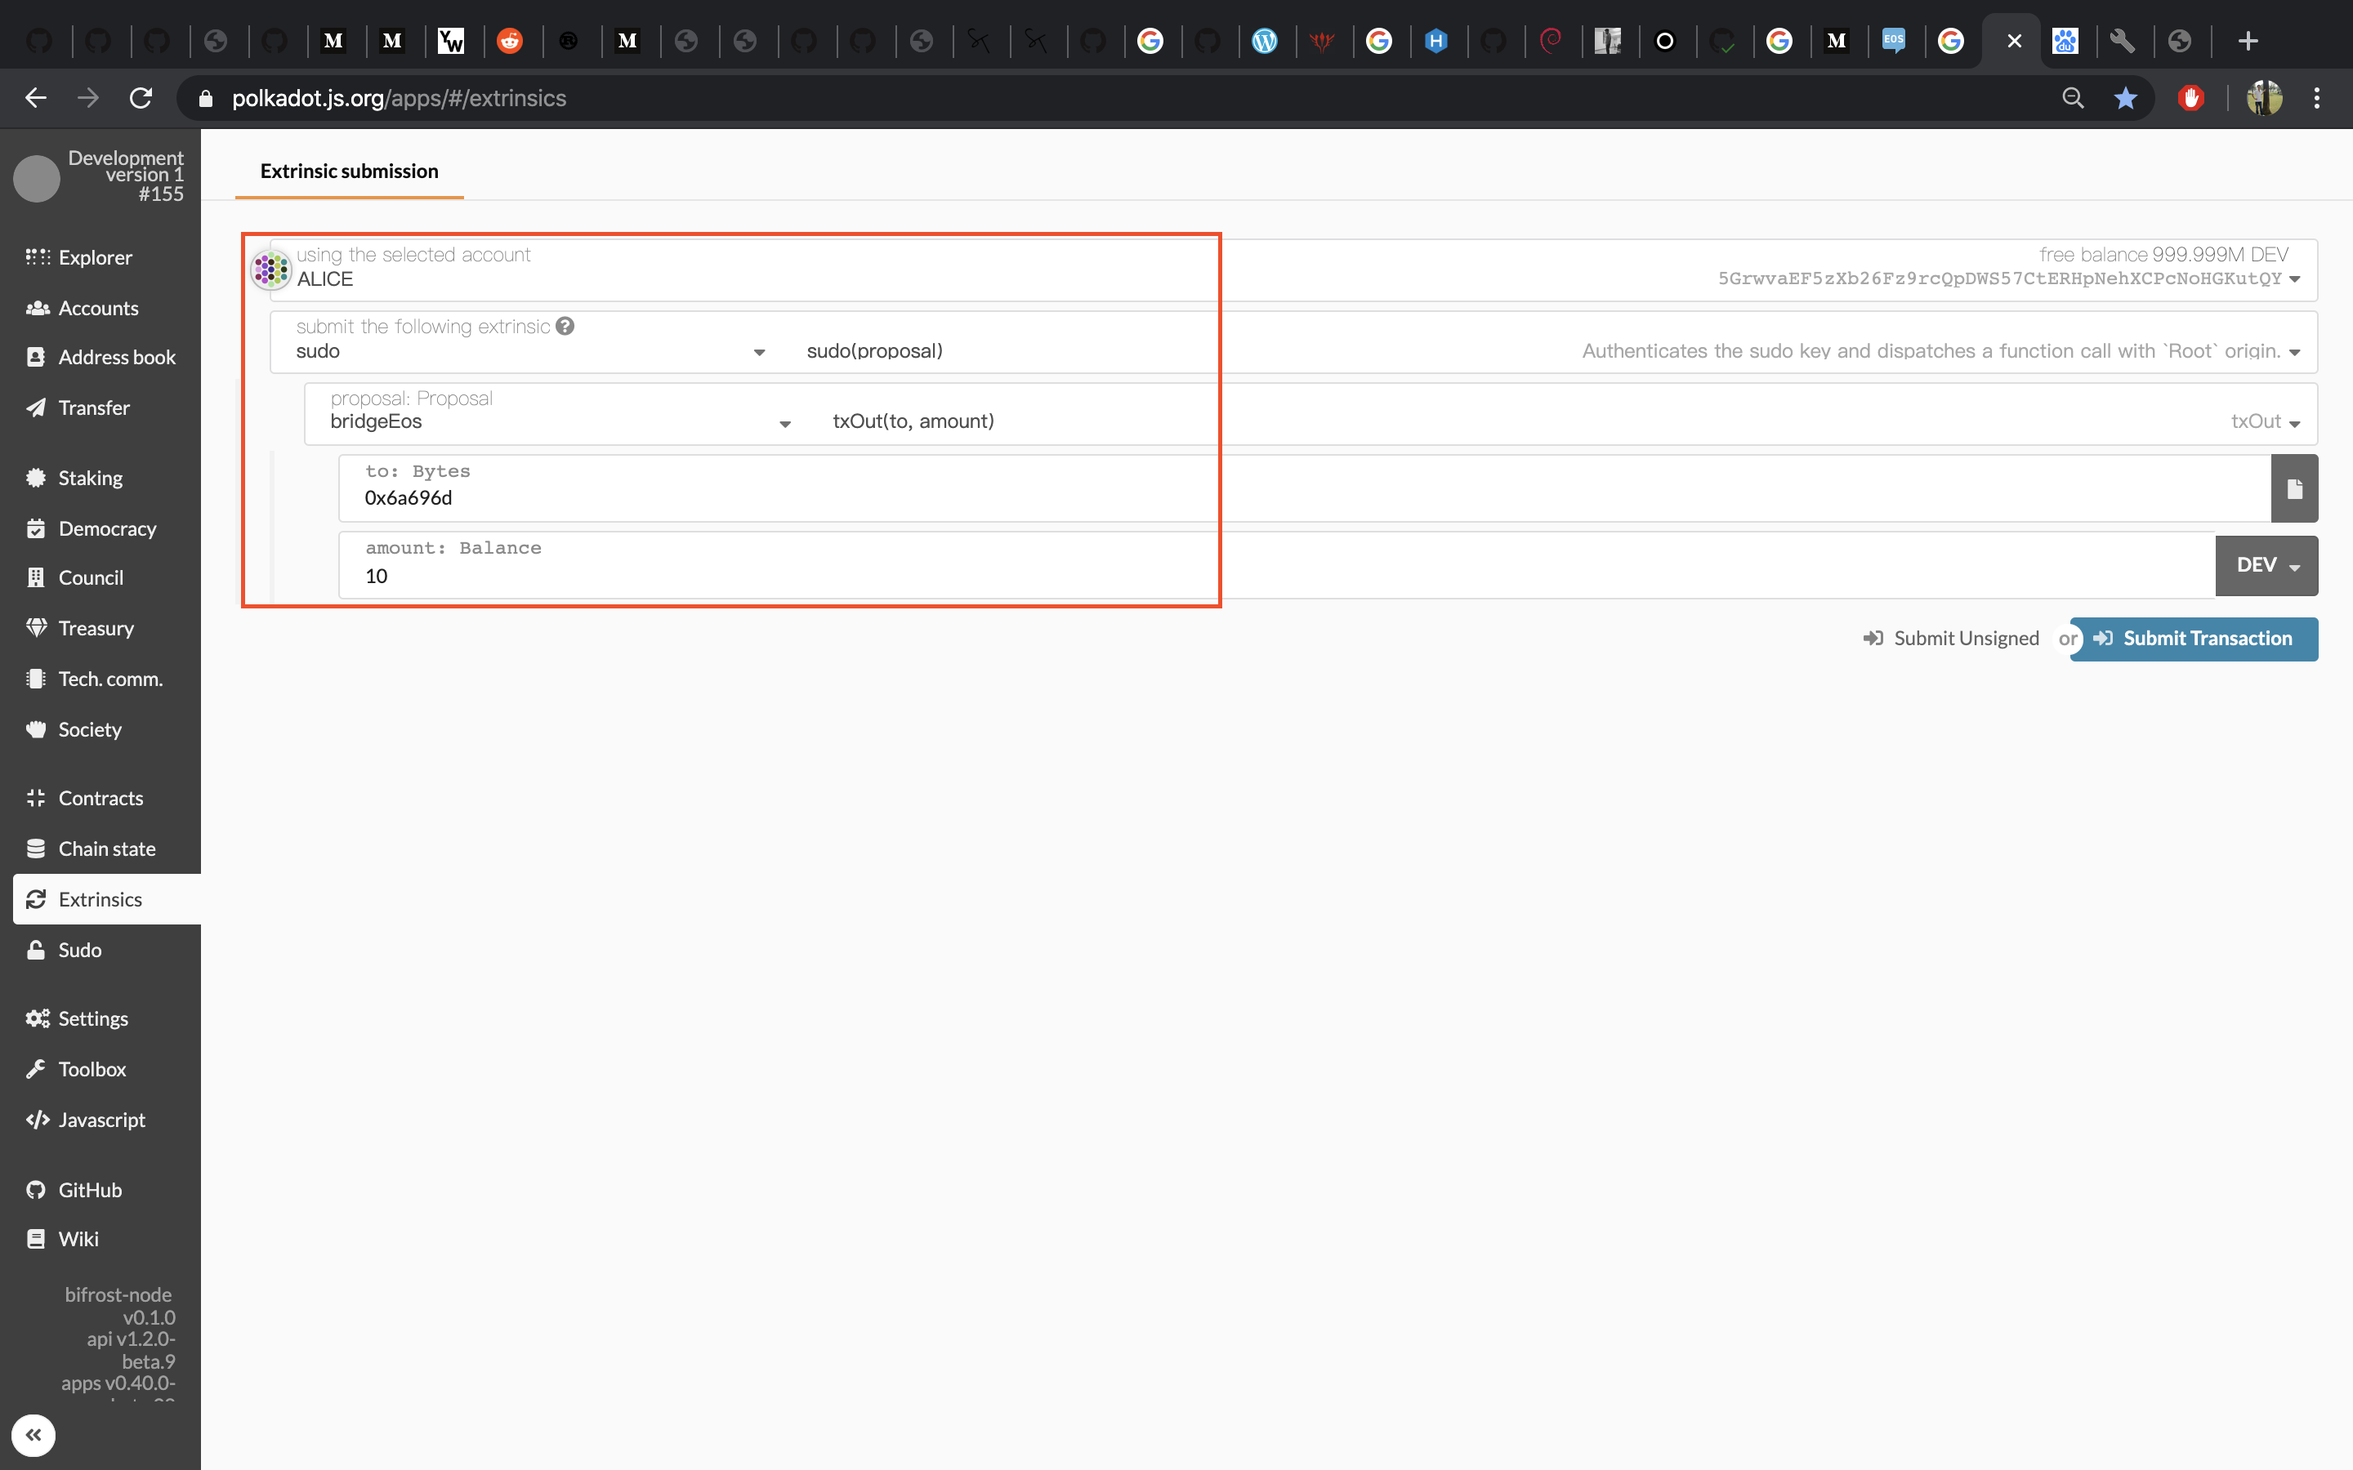
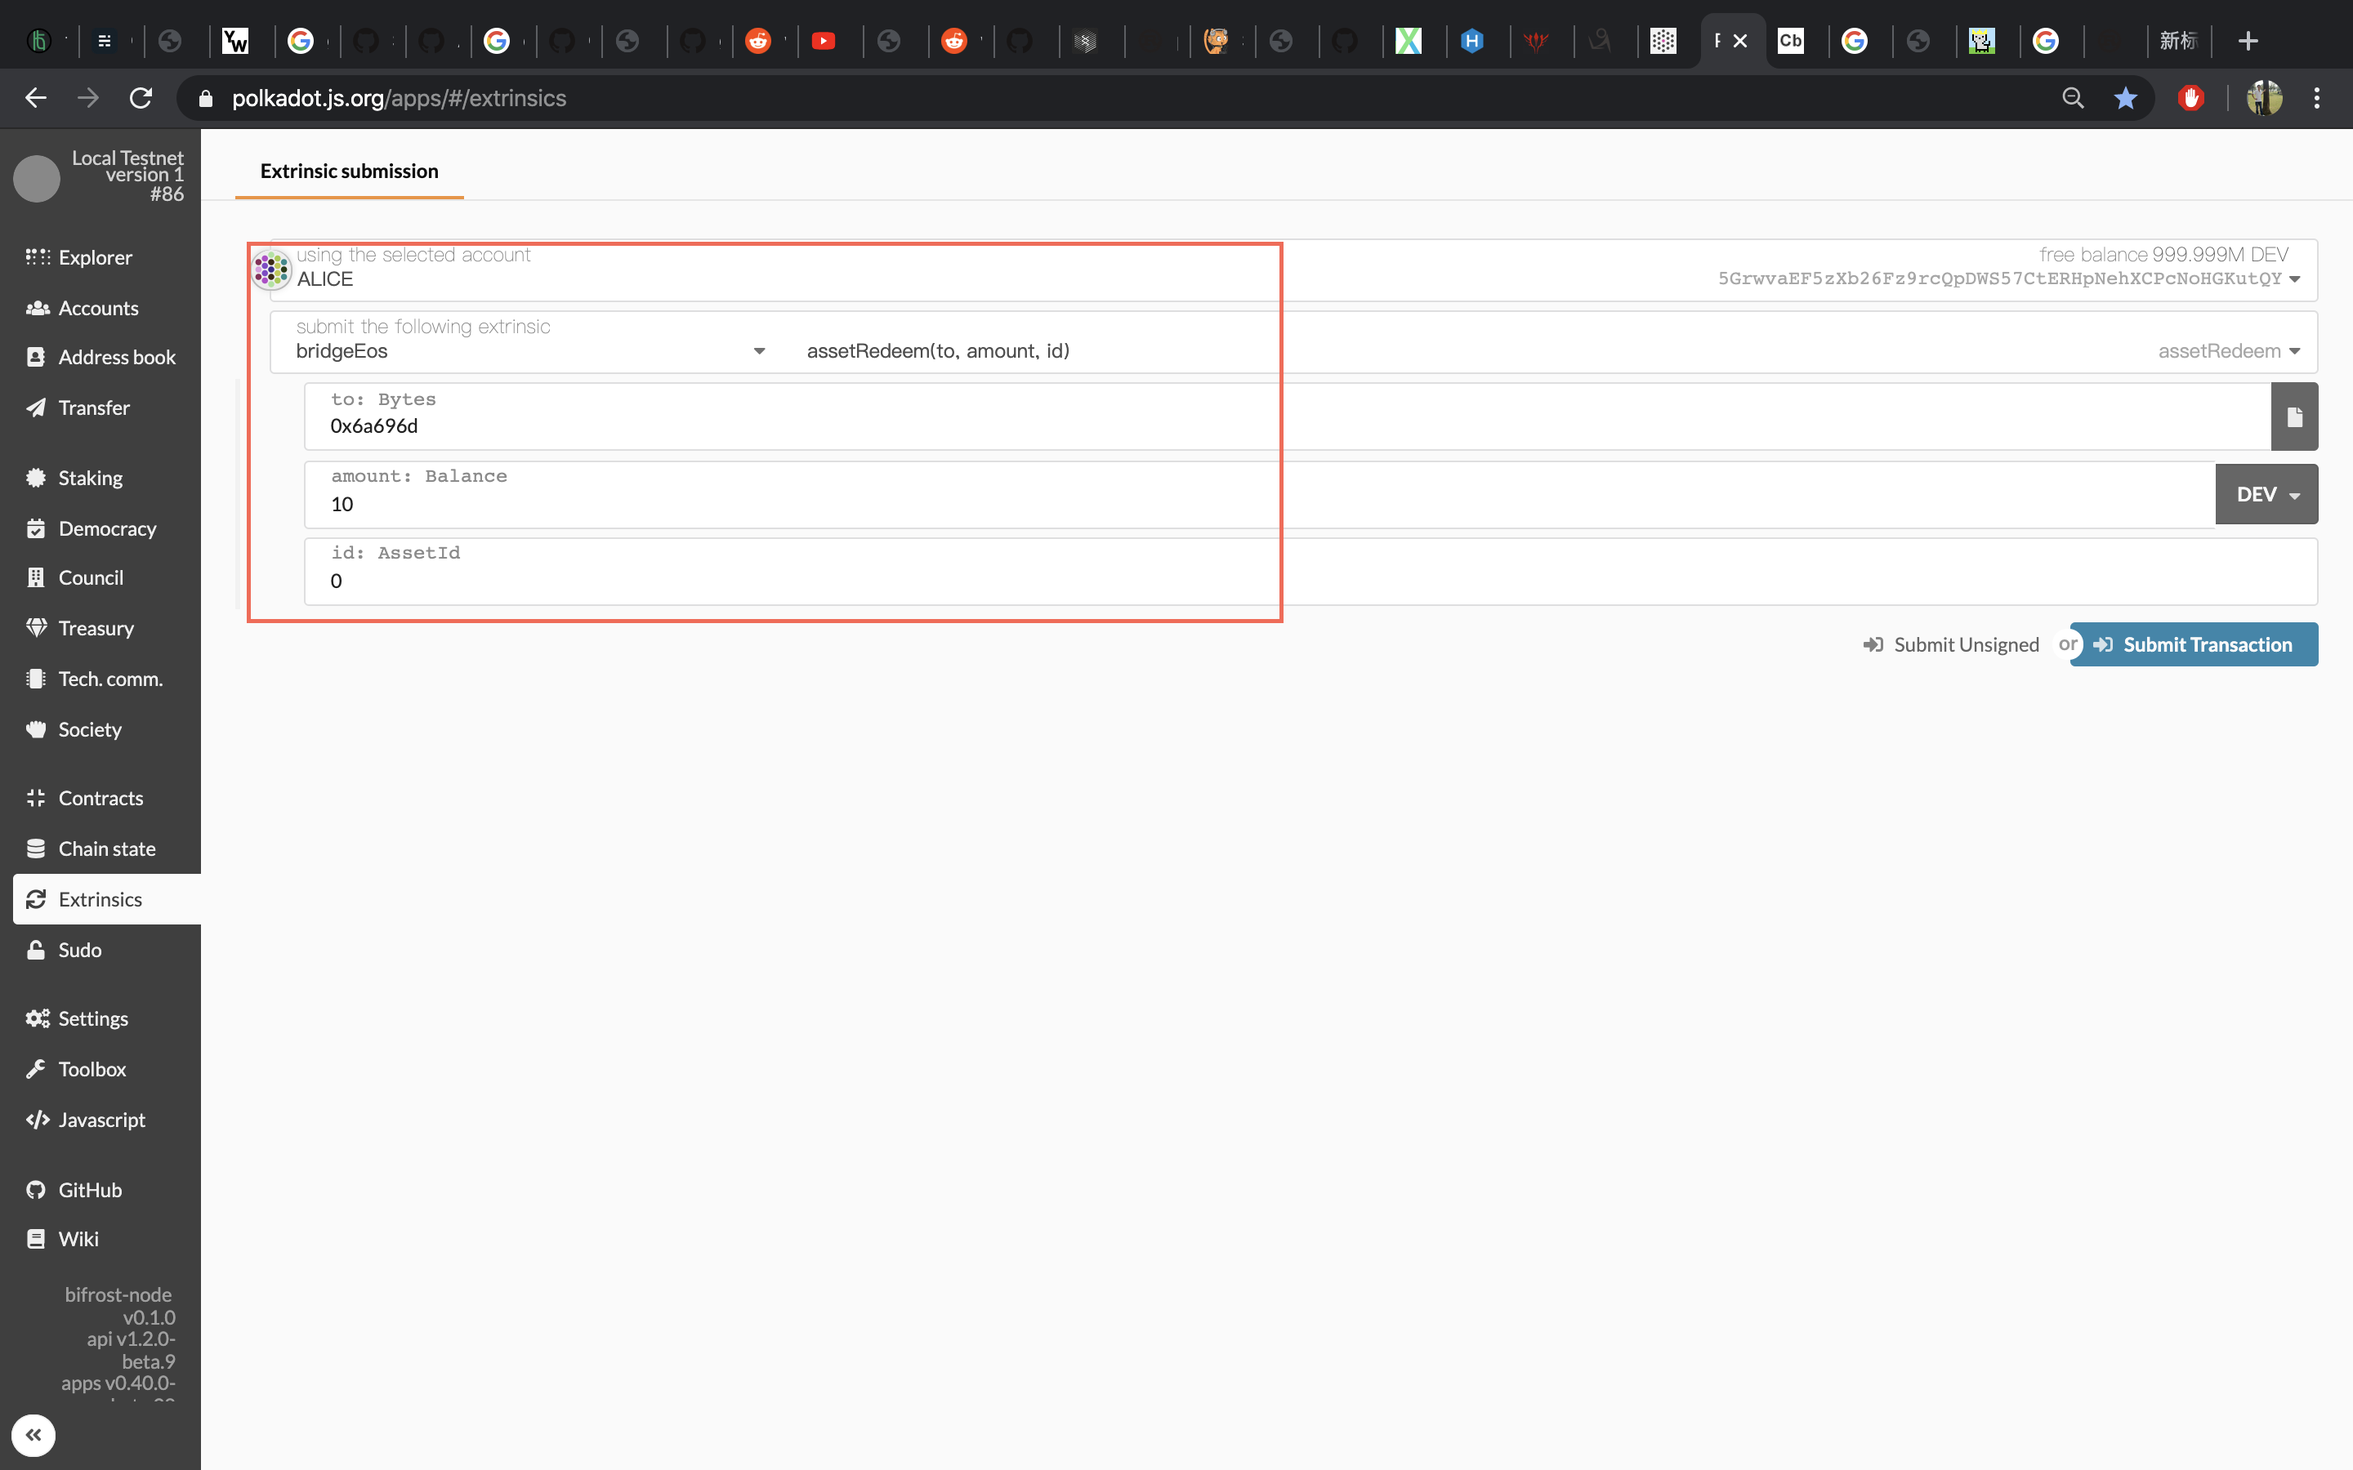
Add brml-assets module to brml-bridge-eos and check receiver and node name

diff --git a/brml/bridge-eos/src/lib.rs b/brml/bridge-eos/src/lib.rs
@@ -21,7 +21,7 @@ extern crate alloc;
 use alloc::borrow::Cow;
 use alloc::string::String;
 use alloc::string::ToString;
-use core::str::FromStr;
+use core::{ops::Div, str::FromStr};
 
 use codec::Encode;
 use eos_chain::{
@@ -46,7 +46,7 @@ use frame_system::{
 	offchain::SubmitUnsignedTransaction
 };
 
-use node_primitives::{BridgeAssetBalance, BridgeAssetFrom, BridgeAssetTo, BridgeAssetSymbol, BlockchainType};
+use node_primitives::{AssetCreate, AssetIssue, AssetRedeem, BridgeAssetBalance, BridgeAssetFrom, BridgeAssetTo, BridgeAssetSymbol, BlockchainType};
 use transaction::TxOut;
 use sp_application_crypto::RuntimeAppPublic;
 
@@ -130,6 +130,7 @@ pub enum Error {
 	#[cfg(feature = "std")]
 	EosKeysError(eos_keys::error::Error),
 	NoLocalStorage,
+	InvalidAccountId,
 }
 
 impl core::convert::From<eos_chain::symbol::ParseSymbolError> for Error {
@@ -140,7 +141,7 @@ impl core::convert::From<eos_chain::symbol::ParseSymbolError> for Error {
 
 pub type VersionId = u32;
 
-pub trait Trait: pallet_authorship::Trait {
+pub trait Trait: pallet_authorship::Trait + assets::Trait {
 	/// The identifier type for an authority.
 	type AuthorityId: Member + Parameter + RuntimeAppPublic + Default + Ord
 		+ From<<Self as frame_system::Trait>::AccountId>;
@@ -154,7 +155,7 @@ pub trait Trait: pallet_authorship::Trait {
 	type Precision: Member + Parameter + SimpleArithmetic + Default + Copy;
 
 	/// Bridge asset from another blockchain.
-	type BridgeAssetFrom: BridgeAssetFrom<Self::AccountId, Self::Precision, Self::Balance>;
+	type BridgeAssetFrom: BridgeAssetFrom<Self::AccountId, Self::Precision, <Self as assets::Trait>::Balance>;
 
 	/// A dispatchable call type.
 	type Call: From<Call<Self>>;
@@ -169,6 +170,8 @@ decl_event! {
 		ChangeSchedule(VersionId, VersionId), // ChangeSchedule(from, to)
 		ProveAction,
 		RelayBlock,
+		TransactionFail,
+		TransactionSuccess,
 	}
 }
 
@@ -299,6 +302,7 @@ decl_module! {
 
 		fn prove_action(
 			origin,
+			target: T::AccountId,
 			action: Action,
 			action_receipt: ActionReceipt,
 			action_merkle_paths: Vec<Checksum256>,
@@ -323,6 +327,13 @@ decl_module! {
 				block_ids_list.len() ==  block_headers.len(),
 				"The block ids list cannot be empty."
 			);
+
+			// check memo, example like "alice@bifrost:EOS", the formatter: {receiver}@{chain}:{memo}
+			let act_transfer = Self::get_action_transfer_from_action(&action);
+			ensure!(act_transfer.is_ok(), "Cannot read transfer action from data.");
+			let act_transfer = act_transfer.unwrap();
+			let split_memo = act_transfer.memo.as_str().split(|c| c == '@' || c == ':').collect::<Vec<_>>();
+			ensure!(split_memo.len() == 2 || split_memo.len() == 3, "This is an invalid memo");
 
 			let action_hash = action.digest();
 			ensure!(action_hash.is_ok(), "failed to calculate action digest.");
@@ -358,7 +369,7 @@ decl_module! {
 			Self::deposit_event(Event::ProveAction);
 
 			// withdraw or deposit
-			Self::filter_account_by_action(&action);
+			Self::filter_account_by_action(target, &act_transfer);
 		}
 
 		fn bridge_tx_report(origin, tx_list: Vec<TxOut<T::AccountId>>) {
@@ -367,16 +378,27 @@ decl_module! {
 			BridgeTxOuts::<T>::put(tx_list);
 		}
 
-		fn tx_out(origin, to: Vec<u8>, amount: T::Balance) {
-			let _ = ensure_root(origin)?;
+		fn asset_redeem(origin, to: Vec<u8>, amount: <T as assets::Trait>::Balance, id: T::AssetId) {
+			let origin = system::ensure_signed(origin)?;
+			let origin_account = (id, origin.clone());
+			let eos_amount = amount.clone();
+
+			let balance = <assets::Balances<T>>::get(origin_account);
+			let amount = amount.div(<T as assets::Trait>::Balance::from(10u32.pow(8)));
+			ensure!(balance >= amount, "amount should be less than or equal to origin balance");
 
 			let raw_symbol = b"EOS".to_vec();
 			let asset_symbol = BridgeAssetSymbol::new(BlockchainType::EOS, raw_symbol, T::Precision::from(4u32));
 			let bridge_asset = BridgeAssetBalance {
 				symbol: asset_symbol,
-				amount
+				amount: eos_amount
 			};
-			Self::bridge_asset_to(to, bridge_asset);
+			if Self::bridge_asset_to(to, bridge_asset).is_ok() {
+				assets::Module::<T>::asset_redeem(id, origin, amount, None);
+				Self::deposit_event(Event::TransactionSuccess);
+			} else {
+				Self::deposit_event(Event::TransactionFail);
+			}
 		}
 
 		// Runs after every block.
@@ -485,8 +507,10 @@ impl<T: Trait> Module<T> {
 		Ok(action_transfer)
 	}
 
-	fn filter_account_by_action(action: &Action) -> Result<(), Error> {
-		let action_transfer = Self::get_action_transfer_from_action(&action)?;
+	fn filter_account_by_action(target: T::AccountId, action_transfer: &ActionTransfer) -> Result<(), Error> {
+		let amount = <T as assets::Trait>::Balance::from(action_transfer.quantity.amount as u32);
+		let (id, _) = assets::Module::<T>::asset_create(vec![0u8], 4);
+		assets::Module::<T>::asset_issue(id, target, amount);
 
 		let from = action_transfer.from.to_string().as_bytes().to_vec();
 		if BridgeContractAccount::get().0 == from {
@@ -501,6 +525,16 @@ impl<T: Trait> Module<T> {
 		}
 
 		Ok(())
+	}
+
+	/// check receiver account format
+	/// https://github.com/paritytech/substrate/wiki/External-Address-Format-(SS58)
+	fn receiver_is_ss58(receiver: &str) -> Result<bool, Error> {
+		let decoded_ss58 = bs58::decode(receiver).into_vec().map_err(|_| crate::Error::InvalidAccountId)?;
+
+		Ok(
+			decoded_ss58.len() == 35 && decoded_ss58.first() == Some(&42) // and checmsum need to be calculated?
+		)
 	}
 
 	/// generate transaction for transfer amount to
@@ -523,7 +557,8 @@ impl<T: Trait> Module<T> {
 
 	#[cfg(feature = "std")]
 	fn offchain(_now_block: T::BlockNumber) {
-		let mut has_change = false;
+		//  avoid borrow checker issue if use has_change: bool
+		let has_change = core::cell::Cell::new(false);
 
 		let bridge_tx_outs = BridgeTxOuts::<T>::get();
 
@@ -545,11 +580,11 @@ impl<T: Trait> Module<T> {
 					// generate raw transactions
 					TxOut::<T::AccountId>::Initial(_) => {
 						if let Ok(generated_bto) = bto.clone().generate(node_url.as_str()) {
-							has_change = true;
+							has_change.set(true);
 							debug::info!(
 								target: "bridge-eos",
 								"bto.generate {:?}",
-								generated_bto.clone(),
+								generated_bto,
 							);
 							dbg!("bto.generate");
 							generated_bto
@@ -559,7 +594,7 @@ impl<T: Trait> Module<T> {
 					},
 					_ => bto,
 				}
-			}).collect::<Vec<_>>().into_iter()
+			})
 			.map(|bto| {
 				match bto {
 					TxOut::<T::AccountId>::Generated(_) => {
@@ -569,11 +604,11 @@ impl<T: Trait> Module<T> {
 							.find(|key| *key == author.clone().into())
 						{
 							if let Ok(signed_bto) = bto.sign(sk, author) {
-								has_change = true;
+								has_change.set(true);
 								debug::info!(
 									target: "bridge-eos",
 									"bto.sign {:?}",
-									signed_bto.clone(),
+									signed_bto,
 								);
 								dbg!("bto.sign");
 								ret = signed_bto;
@@ -583,28 +618,33 @@ impl<T: Trait> Module<T> {
 					},
 					_ => bto,
 				}
-			}).collect::<Vec<_>>().into_iter()
+			})
 			.map(|bto| {
 				match bto {
 					TxOut::<T::AccountId>::Signed(_) => {
-						if let Ok(sent_bto) = bto.clone().send(node_url.as_str()) {
-							has_change = true;
-							debug::info!(
-								target: "bridge-eos",
-								"bto.send {:?}",
-								sent_bto.clone(),
-							);
-							dbg!("bto.send");
-							sent_bto
-						} else {
-							bto
+						match bto.clone().send(node_url.as_str()) {
+							Ok(sent_bto) => {
+								has_change.set(true);
+								debug::info!(
+									target: "bridge-eos",
+									"bto.send {:?}",
+									sent_bto,
+								);
+								dbg!("bto.send");
+								sent_bto
+							}
+							Err(e) => {
+								debug::info!("error while sending: {:?}", e);
+								bto
+							}
 						}
 					},
 					_ => bto,
 				}
 			}).collect::<Vec<_>>();
 
-		if has_change {
+		if has_change.get() {
+			#[cfg(test)] // for testing
 			BridgeTxOuts::<T>::put(bridge_tx_outs.clone());
 			T::SubmitTransaction::submit_unsigned(Call::bridge_tx_report(bridge_tx_outs.clone())).unwrap();
 			debug::info!(
@@ -656,10 +696,13 @@ impl<T: Trait> Module<T> {
 	}
 }
 
-impl<T: Trait> BridgeAssetTo<T::Precision, T::Balance> for Module<T> {
-	fn bridge_asset_to(target: Vec<u8>, bridge_asset: BridgeAssetBalance<T::Precision, T::Balance>) {
+impl<T: Trait> BridgeAssetTo<T::Precision, <T as assets::Trait>::Balance> for Module<T> {
+	type Error = crate::Error;
+	fn bridge_asset_to(target: Vec<u8>, bridge_asset: BridgeAssetBalance<T::Precision, <T as assets::Trait>::Balance>) -> Result<(), Self::Error> {
 		#[cfg(feature = "std")]
-		Self::tx_transfer_to(target, bridge_asset);
+		let _ = Self::tx_transfer_to(target, bridge_asset)?;
+
+		Ok(())
 	}
 }
 

diff --git a/brml/bridge-eos/src/tests.rs b/brml/bridge-eos/src/tests.rs
@@ -342,7 +342,7 @@ fn prove_action_should_be_ok() {
 		assert!(action_receipt.is_ok());
 		let action_receipt = action_receipt.unwrap();
 
-		assert!(BridgeEos::prove_action(Origin::ROOT, action.clone(), action_receipt.clone(), actual_merkle_paths, merkle, signed_blocks_headers, block_ids_list).is_ok());
+		assert!(BridgeEos::prove_action(Origin::ROOT, 0, action.clone(), action_receipt.clone(), actual_merkle_paths, merkle, signed_blocks_headers, block_ids_list).is_ok());
 
 		// ensure action_receipt is saved after proved action
 		assert_eq!(BridgeActionReceipt::get(&action_receipt), action);
@@ -410,6 +410,16 @@ fn bridge_eos_genesis_config_should_work() {
 		assert_eq!(PendingScheduleVersion::get(), version);
 		assert_eq!(ProducerSchedules::get(version), (producers, schedule_hash.unwrap()));
 	});
+}
+
+#[test]
+fn chech_receiver_is_ss58_format() {
+	let key = "5CFK52zU59zUhC3s6mRobEJ3zm7JeXQZaS6ybvcuCDDhWwGG";
+
+	let is_ss58 = BridgeEos::receiver_is_ss58(key);
+	assert!(is_ss58.is_ok());
+	let is_ss58 = is_ss58.unwrap();
+	assert!(is_ss58);
 }
 
 #[cfg(feature = "std")]

diff --git a/brml/bridge-eos/src/transaction.rs b/brml/bridge-eos/src/transaction.rs
@@ -118,7 +118,7 @@ impl<AccountId: PartialEq + Clone> TxOut<AccountId> {
 	}
 
 	#[cfg(feature = "std")]
-	pub fn generate(self, eos_node_url: &str) -> Result<TxOut<AccountId>, Error> {
+	pub fn generate(self, eos_node_url: &str) -> Result<Self, Error> {
 		match self {
 			TxOut::Initial(mut multi_sig_tx) => {
 				let hyper_client = HyperClient::new(eos_node_url);
@@ -147,7 +147,7 @@ impl<AccountId: PartialEq + Clone> TxOut<AccountId> {
 	}
 
 	#[cfg(feature = "std")]
-	pub fn sign(self, sk: SecretKey, author: AccountId) -> Result<TxOut<AccountId>, Error> {
+	pub fn sign(self, sk: SecretKey, author: AccountId) -> Result<Self, Error> {
 		match self {
 			TxOut::Generated(mut multi_sig_tx) => {
 				if multi_sig_tx.multi_sig.has_signed(author.clone()) {

diff --git a/bin/node/primitives/src/lib.rs b/bin/node/primitives/src/lib.rs
@@ -191,9 +191,11 @@ impl<A, P, B> BridgeAssetFrom<A, P, B> for () {
 
 /// Bridge asset from Bifrost to other blockchain
 pub trait BridgeAssetTo<Precision, Balance> {
-	fn bridge_asset_to(target: Vec<u8>, bridge_asset: BridgeAssetBalance<Precision, Balance>);
+	type Error;
+	fn bridge_asset_to(target: Vec<u8>, bridge_asset: BridgeAssetBalance<Precision, Balance>) -> Result<(), Self::Error>;
 }
 
 impl<P, B> BridgeAssetTo<P, B> for () {
-	fn bridge_asset_to(_: Vec<u8>, _: BridgeAssetBalance<P, B>) {}
+	type Error = core::convert::Infallible;
+	fn bridge_asset_to(_: Vec<u8>, _: BridgeAssetBalance<P, B>) -> Result<(), Self::Error> { Ok(()) }
 }

diff --git a/brml/assets/src/lib.rs b/brml/assets/src/lib.rs
@@ -174,6 +174,12 @@ impl<T: Trait> AssetIssue<T::AssetId, T::AccountId, T::Balance> for Module<T> {
 	}
 }
 
+impl<T: Trait> AssetRedeem<T::AssetId, T::AccountId, T::Balance> for Module<T> {
+	fn asset_redeem(asset_id: T::AssetId, target: T::AccountId, amount: T::Balance, to_name: Option<Vec<u8>>) {
+		Self::asset_destroy(asset_id, target, amount);
+	}
+}
+
 // The main implementation block for the module.
 impl<T: Trait> Module<T> {
 	fn asset_create(symbol: Vec<u8>, precision: u16) -> (T::AssetId, Token<T::Balance>) {

diff --git a/brml/bridge-eos/src/mock.rs b/brml/bridge-eos/src/mock.rs
@@ -49,6 +49,7 @@ impl_outer_origin! {
 impl_outer_event! {
 	pub enum TestEvent for Test {
 		bridge_eos,
+		assets<T>,
 	}
 }
 
@@ -117,6 +118,14 @@ impl crate::Trait for Test {
 	type BridgeAssetFrom = ();
 	type Call = Call;
 	type SubmitTransaction = SubmitTransaction;
+}
+
+impl assets::Trait for Test {
+	type Event = TestEvent;
+	type Balance = u64;
+	type AssetId = u32;
+	type ClearingHandler = ();
+	type AssetRedeem = ();
 }
 
 pub type BridgeEos = crate::Module<Test>;

diff --git a/docs/README.md b/docs/README.md
@@ -201,6 +201,10 @@ Wait about 90 seconds for the transaction is verified. If all go well, you can s
 
 ![prove_action_event](prove_action_event.png)
 
+If that event happens, Alice's assets will be created, the amount is 1000000(due to EOS precision), go to check Alice's assets that just created.
+
+![assets_creation](assets_creation.png)
+
 If you see that figure above, go check **jim**'s and **bifrost**'s balance again.
 ```
 # should print 9900.0000 EOS
@@ -251,6 +255,8 @@ Now, we can send a transaction to EOS node.
 
 Follow the picture to send a transaction to EOS node( "jim" to hex: "0x6a696d").
 ![send_transaction](transaction_to_eos.png)
+
+Surely you can go to [polkadot.js.org](https://polkadot.js.org/apps/#/extrinsics) to check Alice's assets change or not
 
 Check jim's and bifrost's balance in EOS node if it runs without error.
 
